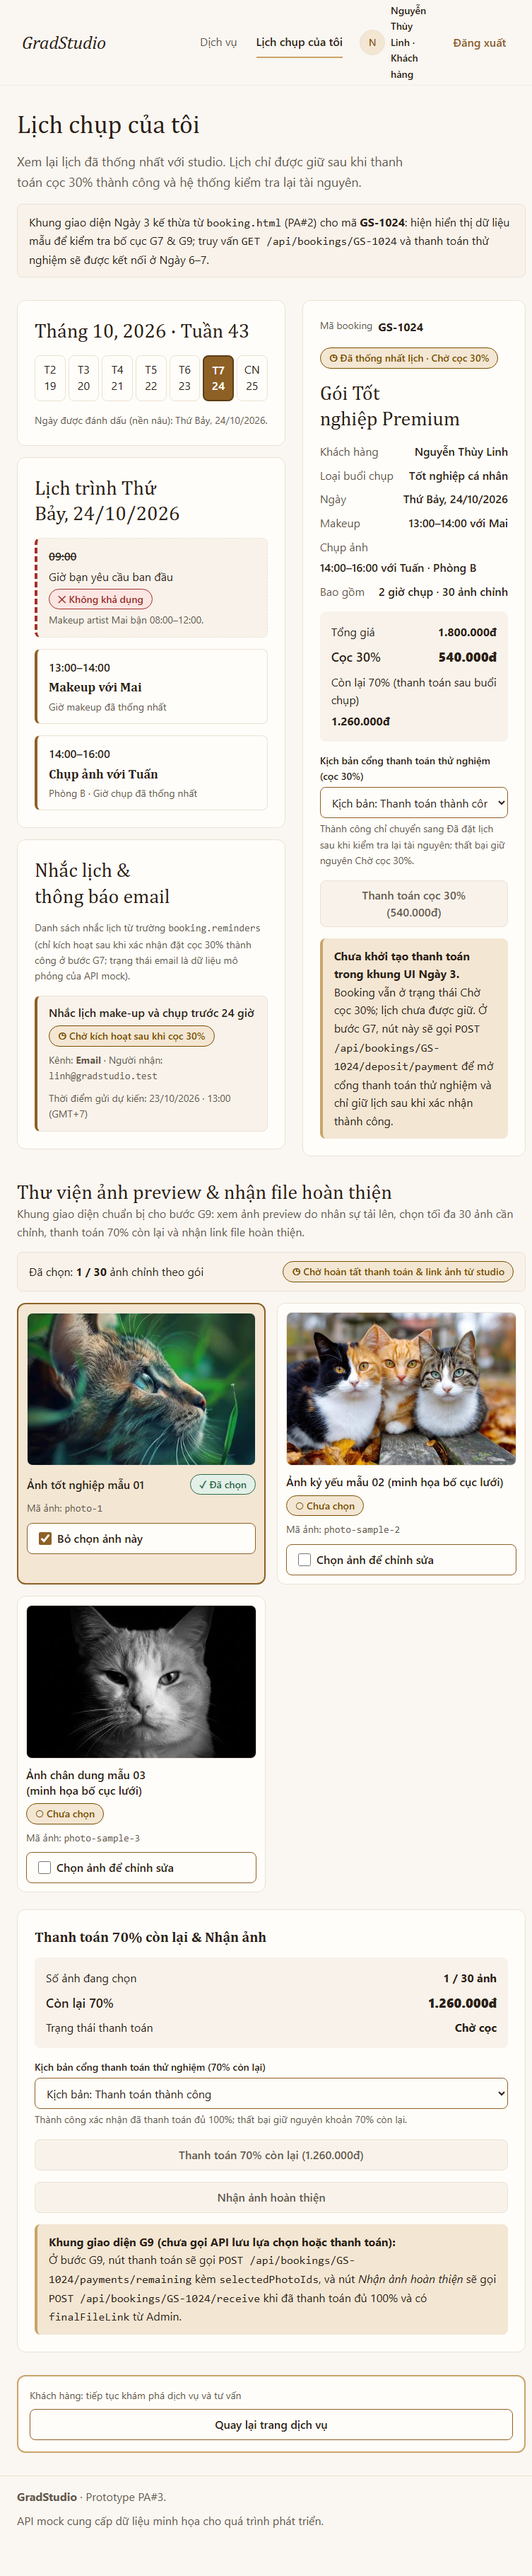
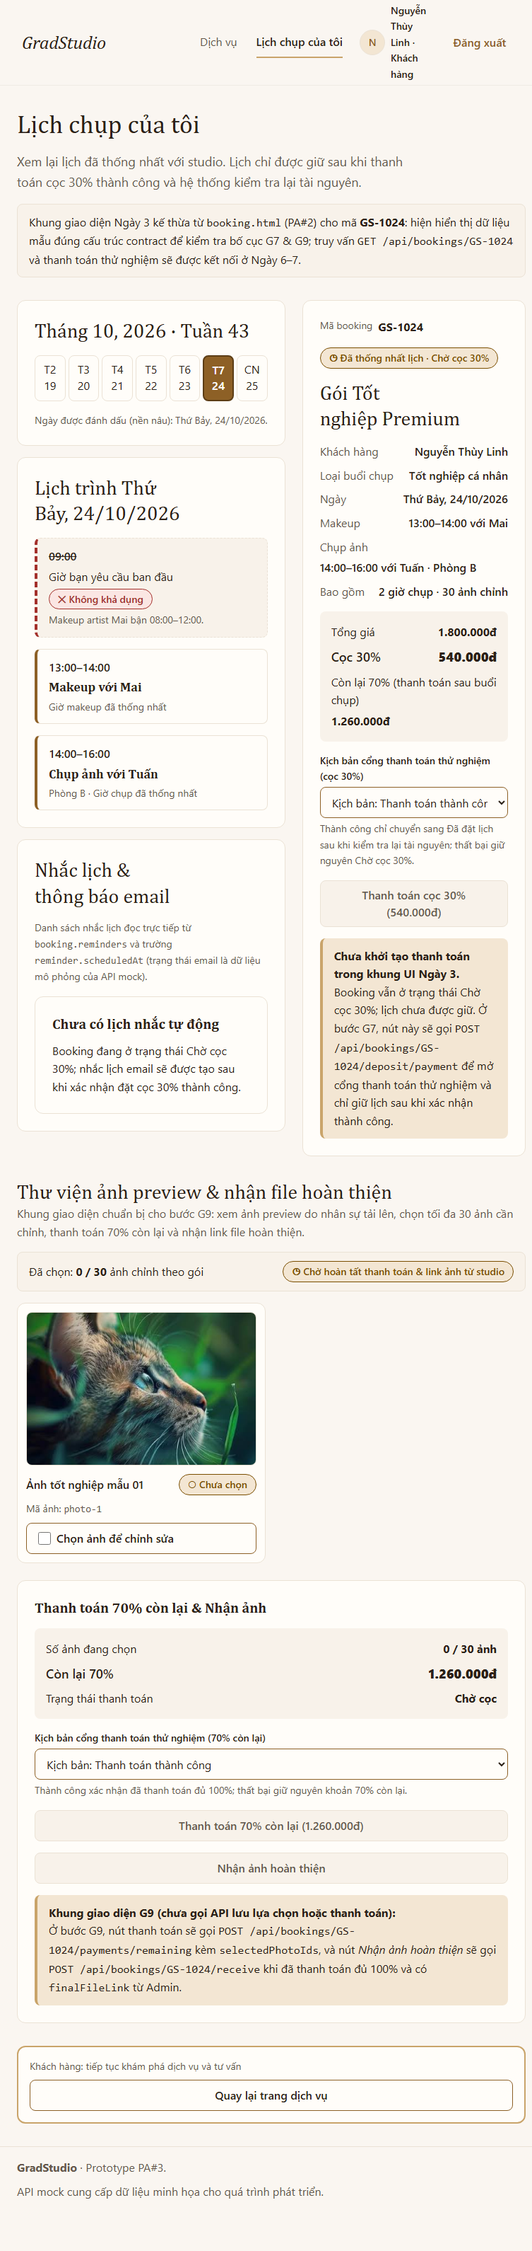
docs(pa3): cap nhat anh giao dien va nhat ky sua review ngay 3 - Phuc

diff --git a/docs/pa3/evidence/day3-phuc/DAY3_PHUC_HANDOFF.md b/docs/pa3/evidence/day3-phuc/DAY3_PHUC_HANDOFF.md
@@ -10,9 +10,9 @@
 
 | Đường dẫn file | Vai trò & Luồng chuẩn bị | Ghi chú kế thừa & Kiến trúc |
 |---|---|---|
-| `client/src/components/CustomerChatSection.jsx` | **Customer Chat** — chuẩn bị cho **G3** & **G6-Customer** | Kế thừa bố cục `#chat` từ `index.html` PA#2; dùng `useAuth()` kiểm tra phiên đăng nhập; có banner hướng dẫn đăng nhập cho Visitor, khung đề xuất giờ mới G6 (Đồng ý / Từ chối) và form gửi yêu cầu kiểm tra lịch G3. |
-| `client/src/pages/BookingPage.jsx` | **Booking Page** — chuẩn bị cho **G7** & tích hợp **G9** | Kế thừa trọn vẹn bố cục `booking.html` PA#2 (Lịch tuần 43, Timeline 3 mốc với 09:00 gạch ngang không khả dụng, chi tiết gói `GS-1024`, hộp giá `1.800.000đ` / `540.000đ` / `1.260.000đ`); bổ sung khối `reminders` và nhúng `BookingPhotoGallery`. |
-| `client/src/components/BookingPhotoGallery.jsx` | **Photo Gallery** — chuẩn bị cho **G9** | Lưới ảnh preview dùng chung asset hợp lệ trong `client/public/assets/images/`, bộ đếm chọn tối đa `maxEditedPhotos` (30 ảnh), khung thanh toán 70% còn lại và nút *Nhận ảnh hoàn thiện* (sử dụng `EmptyState` dùng chung khi danh sách rỗng). |
+| `client/src/components/CustomerChatSection.jsx` | **Customer Chat** — chuẩn bị cho **G3** & **G6-Customer** | Kế thừa bố cục `#chat` từ `index.html` PA#2; đồng bộ gói khi bấm *“Hỏi về gói này”* từ Catalogue nhưng vẫn cho phép khách tự đổi lựa chọn trong dropdown; có banner hướng dẫn đăng nhập cho Visitor, khung đề xuất giờ mới G6 và form gửi yêu cầu G3. |
+| `client/src/pages/BookingPage.jsx` | **Booking Page** — chuẩn bị cho **G7** & tích hợp **G9** | Kế thừa trọn vẹn bố cục `booking.html` PA#2; dùng đúng cấu trúc `booking.reminders` (ban đầu rỗng `[]` khi `Chờ cọc 30%`, định dạng ISO `reminder.scheduledAt`) và truyền `booking.selectedPhotoIds` xuống `BookingPhotoGallery`. |
+| `client/src/components/BookingPhotoGallery.jsx` | **Photo Gallery** — chuẩn bị cho **G9** | Lưới ảnh preview đọc trực tiếp `selectedPhotoIds` (mặc định `[]` — `0 / 30` ảnh, không tự chọn trước `photo-1`), bộ đếm trần `maxEditedPhotos` (30 ảnh), khung thanh toán 70% còn lại và nút *Nhận ảnh hoàn thiện*. |
 | `client/src/pages/TestPaymentPage.jsx` | **Test Payment Gateway** — chuẩn bị cho **G7** & **G9** | Khung trang cổng thanh toán mô phỏng tại `/payments/test/:id`, đọc query `kind`, `scenario`, `paymentId` và chuẩn bị điểm gọi `POST /api/bookings/:id/payments/confirm`. |
 | `client/src/api/customerEndpoints.js` | Bản đồ Endpoint Customer | Gom toàn bộ đường dẫn tương đối `/api/...` cho G3, G6, G7, G9; tách riêng khỏi file `.jsx` để đảm bảo React Fast Refresh (`oxlint` đạt 0 warning, 0 error). |
 | `client/src/styles/customerFlow.css` | Stylesheet phạm vi Customer | Tái sử dụng 100% design tokens `:root` của `styles.css` PA#2; mobile-first (`768px`, `1200px`), không dùng `!important`, không dùng `overflow-x: hidden`. |
@@ -86,8 +86,12 @@ Tất cả các cuộc gọi API trong giai đoạn tiếp theo sẽ đi qua `co
 
 > **Phương pháp chụp ảnh minh chứng:** Để kiểm tra giao diện thực tế mà không sửa file của Tuấn trong Git, quá trình kiểm tra đã gắn tạm các component vào bản chạy cục bộ trên trình duyệt Chrome Headless với mock server (`normal` mode), đo DOM tự động tại 3 độ phân giải `360px`, `768px`, `1280px`, chụp ảnh màn hình, sau đó khôi phục nguyên trạng 100% `HomePage.jsx` và `App.jsx`.
 
-- **`npm run lint` (`oxlint`):** `Found 0 warnings and 0 errors` trên toàn bộ 19 files trong `client/src/`.
+- **`npm run lint` (`oxlint`):** `Found 0 warnings and 0 errors` trên toàn bộ 35 files trong `client/src/`.
 - **`npm run build` (`vite build`):** Thành công, xuất `client/dist/` không lỗi.
+- **Kiểm chứng 3 điểm review kỹ thuật:**
+  1. `CustomerChatSection`: Bấm *“Hỏi về gói này”* từ Catalogue tự điền gói vào dropdown, sau đó đổi thủ công trong `<select>` sang gói khác (`Chân dung/CV`) cập nhật bình thường cả dropdown và nhãn `Đang hỏi về`.
+  2. `BookingPage`: Đọc trực tiếp `booking.reminders` và `reminder.scheduledAt` (hiển thị `EmptyState` khi `reminders: []` ở trạng thái `Chờ cọc 30%`).
+  3. `BookingPhotoGallery`: Mặc định `selectedPhotoIds = []` (`Đã chọn: 0 / 30`, `photo-1` chưa được chọn), đồng bộ theo prop `selectedPhotoIds` và bật/tắt chọn bình thường trên UI.
 - **Kiểm tra Responsive & Accessibility tự động (`360px`, `768px`, `1280px`):**
   - `scrollWidth > clientWidth`: `false` trên mọi màn hình và kích thước.
   - Phần tử tràn cạnh phải viewport: `0` phần tử.

diff --git a/AI-LOG.md b/AI-LOG.md
@@ -357,3 +357,17 @@ Rejected: Không thêm `role` giả tạo để giữ `aria-label`, không dùng
 - **Phương án không dùng:** Không viết cứng danh sách phòng/nhân sự vì API không cung cấp (dùng ô nhập); không thêm trạng thái booking mới cho việc hủy (dùng trường `cancelled`); không thêm dependency; không đưa thay đổi `App.jsx` vào commit vì file thuộc phạm vi của Tuấn.
 - **Đã kiểm chứng (assistant chạy, với `App.jsx` nối tạm hai page):** `npm run lint` và `npm run build` thành công; `node tools/contract-check.mjs` trên mock mới đạt `PASS 100% - 0 FAIL (57 examples, 24 endpoints)`; kịch bản Playwright cho G4–G6, G8, G10; bốn mode `normal`, `slow`, `error`, `empty`; `/studio` và `/staff` tại 360, 768, 1280 px không cuộn ngang, một `h1`, không có control thấp hơn 44 px trong phép đo; Nu Html Checker trên HTML đã render của hai page ở ba bề rộng không báo lỗi.
 - **Chưa kiểm chứng:** Thành viên nhóm chưa tự kiểm thử lại; chưa chạy luồng liên vai trò hoàn toàn qua giao diện vì G3, G7, G9 và tích hợp router chưa xong (bước của khách trong kịch bản được gọi thẳng vào API).
+
+### 2026-11-27 — Điều chỉnh 3 điểm review trên khung UI Customer (Chat, Booking, Gallery) — Phúc
+
+- **Công cụ:** Antigravity (Google DeepMind); Node.js 24.15.0; Oxlint 1.90.0; Vite 8.3.8; Google Chrome Headless (CDP).
+- **Yêu cầu thực tế:** Phân tích và sửa 3 lỗi review trên khung giao diện Customer Ngày 3: (1) `CustomerChatSection.jsx` ưu tiên `selectedPackageName` hơn `preferredShootType` khiến khách không đổi được gói trong dropdown sau khi bấm từ Catalogue; (2) `BookingPage.jsx` dùng `remindersSample` và `scheduledAtLabel` thay vì `booking.reminders` và `reminder.scheduledAt` chuẩn contract; (3) `BookingPhotoGallery.jsx` tự chọn sẵn `photo-1` trong khi API mẫu trả `selectedPhotoIds: []`.
+- **Đã thay đổi:**
+  - [client/src/components/CustomerChatSection.jsx](client/src/components/CustomerChatSection.jsx): Theo dõi thay đổi của `selectedPackageName` để đồng bộ vào `preferredShootType` khi khách bấm *“Hỏi về gói này”*, đồng thời ưu tiên `preferredShootType` khi khách tự đổi lựa chọn trong `<select>` và đồng bộ nhãn `Đang hỏi về` trên đầu khung chat.
+  - [client/src/pages/BookingPage.jsx](client/src/pages/BookingPage.jsx): Bỏ `remindersSample` và `scheduledAtLabel`; chuẩn hóa dữ liệu mẫu khớp contract (`reminders: []`, `selectedPhotoIds: []`, `finalFileLink: ''`), thêm `formatScheduledAt(reminder.scheduledAt)` dùng `Intl.DateTimeFormat('vi-VN')`, hiển thị `EmptyState` khi `booking.reminders` rỗng và truyền `selectedPhotoIds={booking.selectedPhotoIds}` xuống gallery.
+  - [client/src/components/BookingPhotoGallery.jsx](client/src/components/BookingPhotoGallery.jsx): Đổi prop thành `selectedPhotoIds = []` (không tự chọn sẵn `photo-1`) và đồng bộ state `selectedIds` khi dữ liệu `booking.selectedPhotoIds` cập nhật.
+  - Cập nhật lại 6 ảnh chụp giao diện và [DAY3_PHUC_HANDOFF.md](docs/pa3/evidence/day3-phuc/DAY3_PHUC_HANDOFF.md).
+- **Đã kiểm chứng:**
+  - Kiểm tra tự động trên Chrome Headless: sau khi kích hoạt `.catalogue-inquiry` rồi đổi `#req-shoot-type` sang `"Chân dung/CV"`, cả giá trị `<select>` lẫn tiêu đề chat cập nhật thành `"Chân dung/CV"`; trang `/bookings/GS-1024` hiển thị `Đã chọn: 0 / 30`, `#select-preview-photo-1.checked === false`, khối nhắc lịch hiển thị trạng thái trống cho `reminders: []`, và click chọn ảnh tăng lên `1 / 30`.
+  - Responsive `360px`, `768px`, `1280px`: `horizontalOverflow: false`, `1` thẻ `<h1>`/trang, `0` control thiếu label, vùng bấm tại `360px` cao `>= 44px`.
+  - `npm run lint` (`oxlint`): `Found 0 warnings and 0 errors` (35 files); `npm run build` (`vite build`) thành công.

diff --git a/brief.md b/brief.md
@@ -893,3 +893,21 @@ Yêu cầu nguyên văn:
 > Bạn truy cập repo https://github.com/nguyenanhtuan2702/gradstudio-pa2-repo.git, bạn làm cho tôi phần việc của Minh trong file PhanCongPA3 đi
 
 Trong lượt này không có prompt bổ sung. Phạm vi và ràng buộc được assistant đọc từ `docs/pa3/PhanCongPA3.md`, `docs/pa3/ThongNhatKyThuatPA3.md`, `docs/api/`, brief và rubric PA#3.
+
+---
+
+# PHẦN XX: PROMPT SỬA 3 LỖI REVIEW KHUNG UI CUSTOMER — LÊ CÔNG PHÚC (27/11/2026)
+
+Yêu cầu nguyên văn, theo thứ tự:
+
+> có 3 lỗi cần xem xét qua:
+> CustomerChatSection.jsx – Logic chọn gói: activeShootType hiện luôn ưu tiên selectedPackageName hơn preferredShootType. Khi khách bấm “Hỏi về gói này” từ Catalogue, khách có thể không đổi được gói trong dropdown. Bạn sửa lại logic/state để khách có thể thay đổi lựa chọn bình thường nhé.
+>
+> BookingPage.jsx – Dữ liệu reminders: Khi tích hợp API, cần sử dụng đúng cấu trúc booking.reminders và trường reminder.scheduledAt theo API contract, thay vì phụ thuộc vào remindersSample và scheduledAtLabel.
+>
+> BookingPhotoGallery.jsx – Ảnh được chọn mặc định: Hiện component tự đánh dấu photo-1 là ảnh được chọn ngay từ đầu, trong khi dữ liệu API mẫu có selectedPhotoIds rỗng. Bạn bỏ lựa chọn mặc định này; khi triển khai G9, trạng thái ảnh được chọn cần lấy từ booking.selectedPhotoIds để giao diện phản ánh đúng dữ liệu thực tế.
+> thực hiện phân tích và lên plan để sửa
+
+Follow-up xác nhận thực thi:
+
+> bắt đầu
